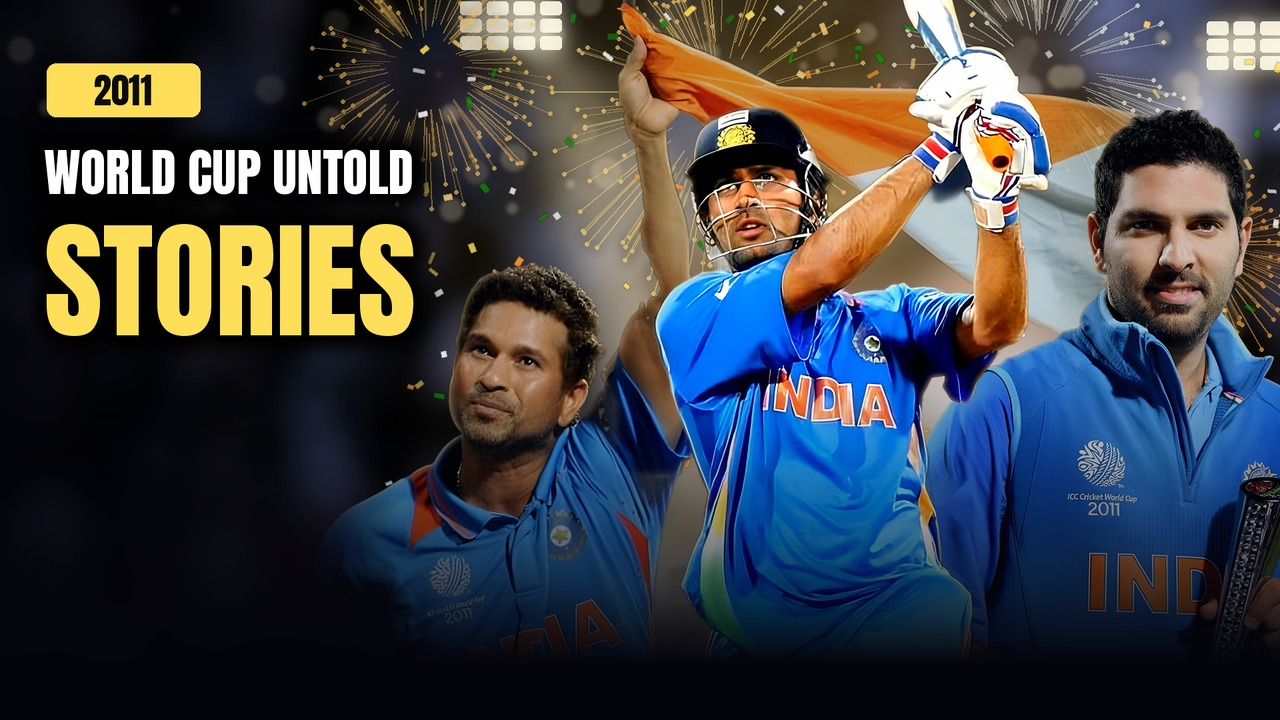
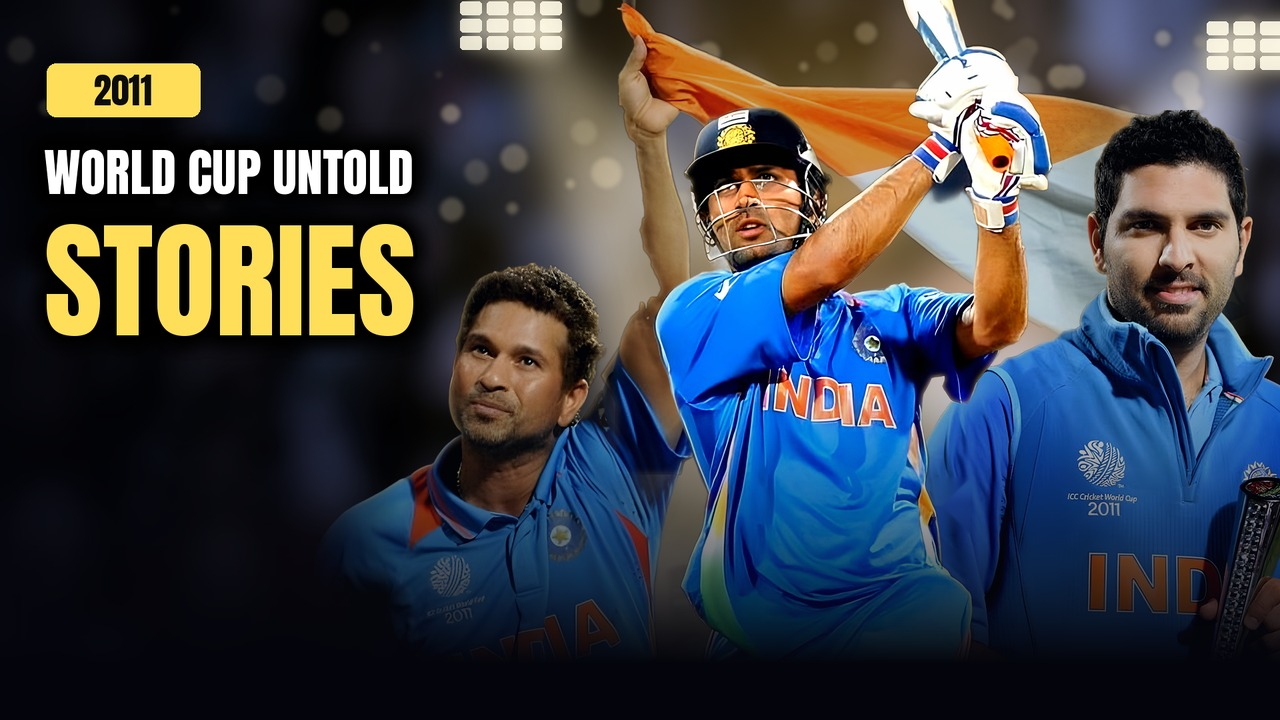
2011 thumbnail: drop fireworks and confetti, keep brighter crowd and floodlights
Claude-Session: https://claude.ai/code/session_01SQh72PYSr2UGL5osbLDTTd

diff --git a/wc2011_thumb/thumb.py b/wc2011_thumb/thumb.py
@@ -225,8 +225,6 @@ def stadium():
         d.ellipse((x - r, y - r, x + r, y + r), fill=(255, 235, 190, rnd.randint(25, 90)))
     im = Image.alpha_composite(im, bk.filter(ImageFilter.GaussianBlur(4)))
     im = Image.alpha_composite(im, beams())
-    im = Image.alpha_composite(im, fireworks(0.75))
-    im = Image.alpha_composite(im, confetti())
     return im
 
 
